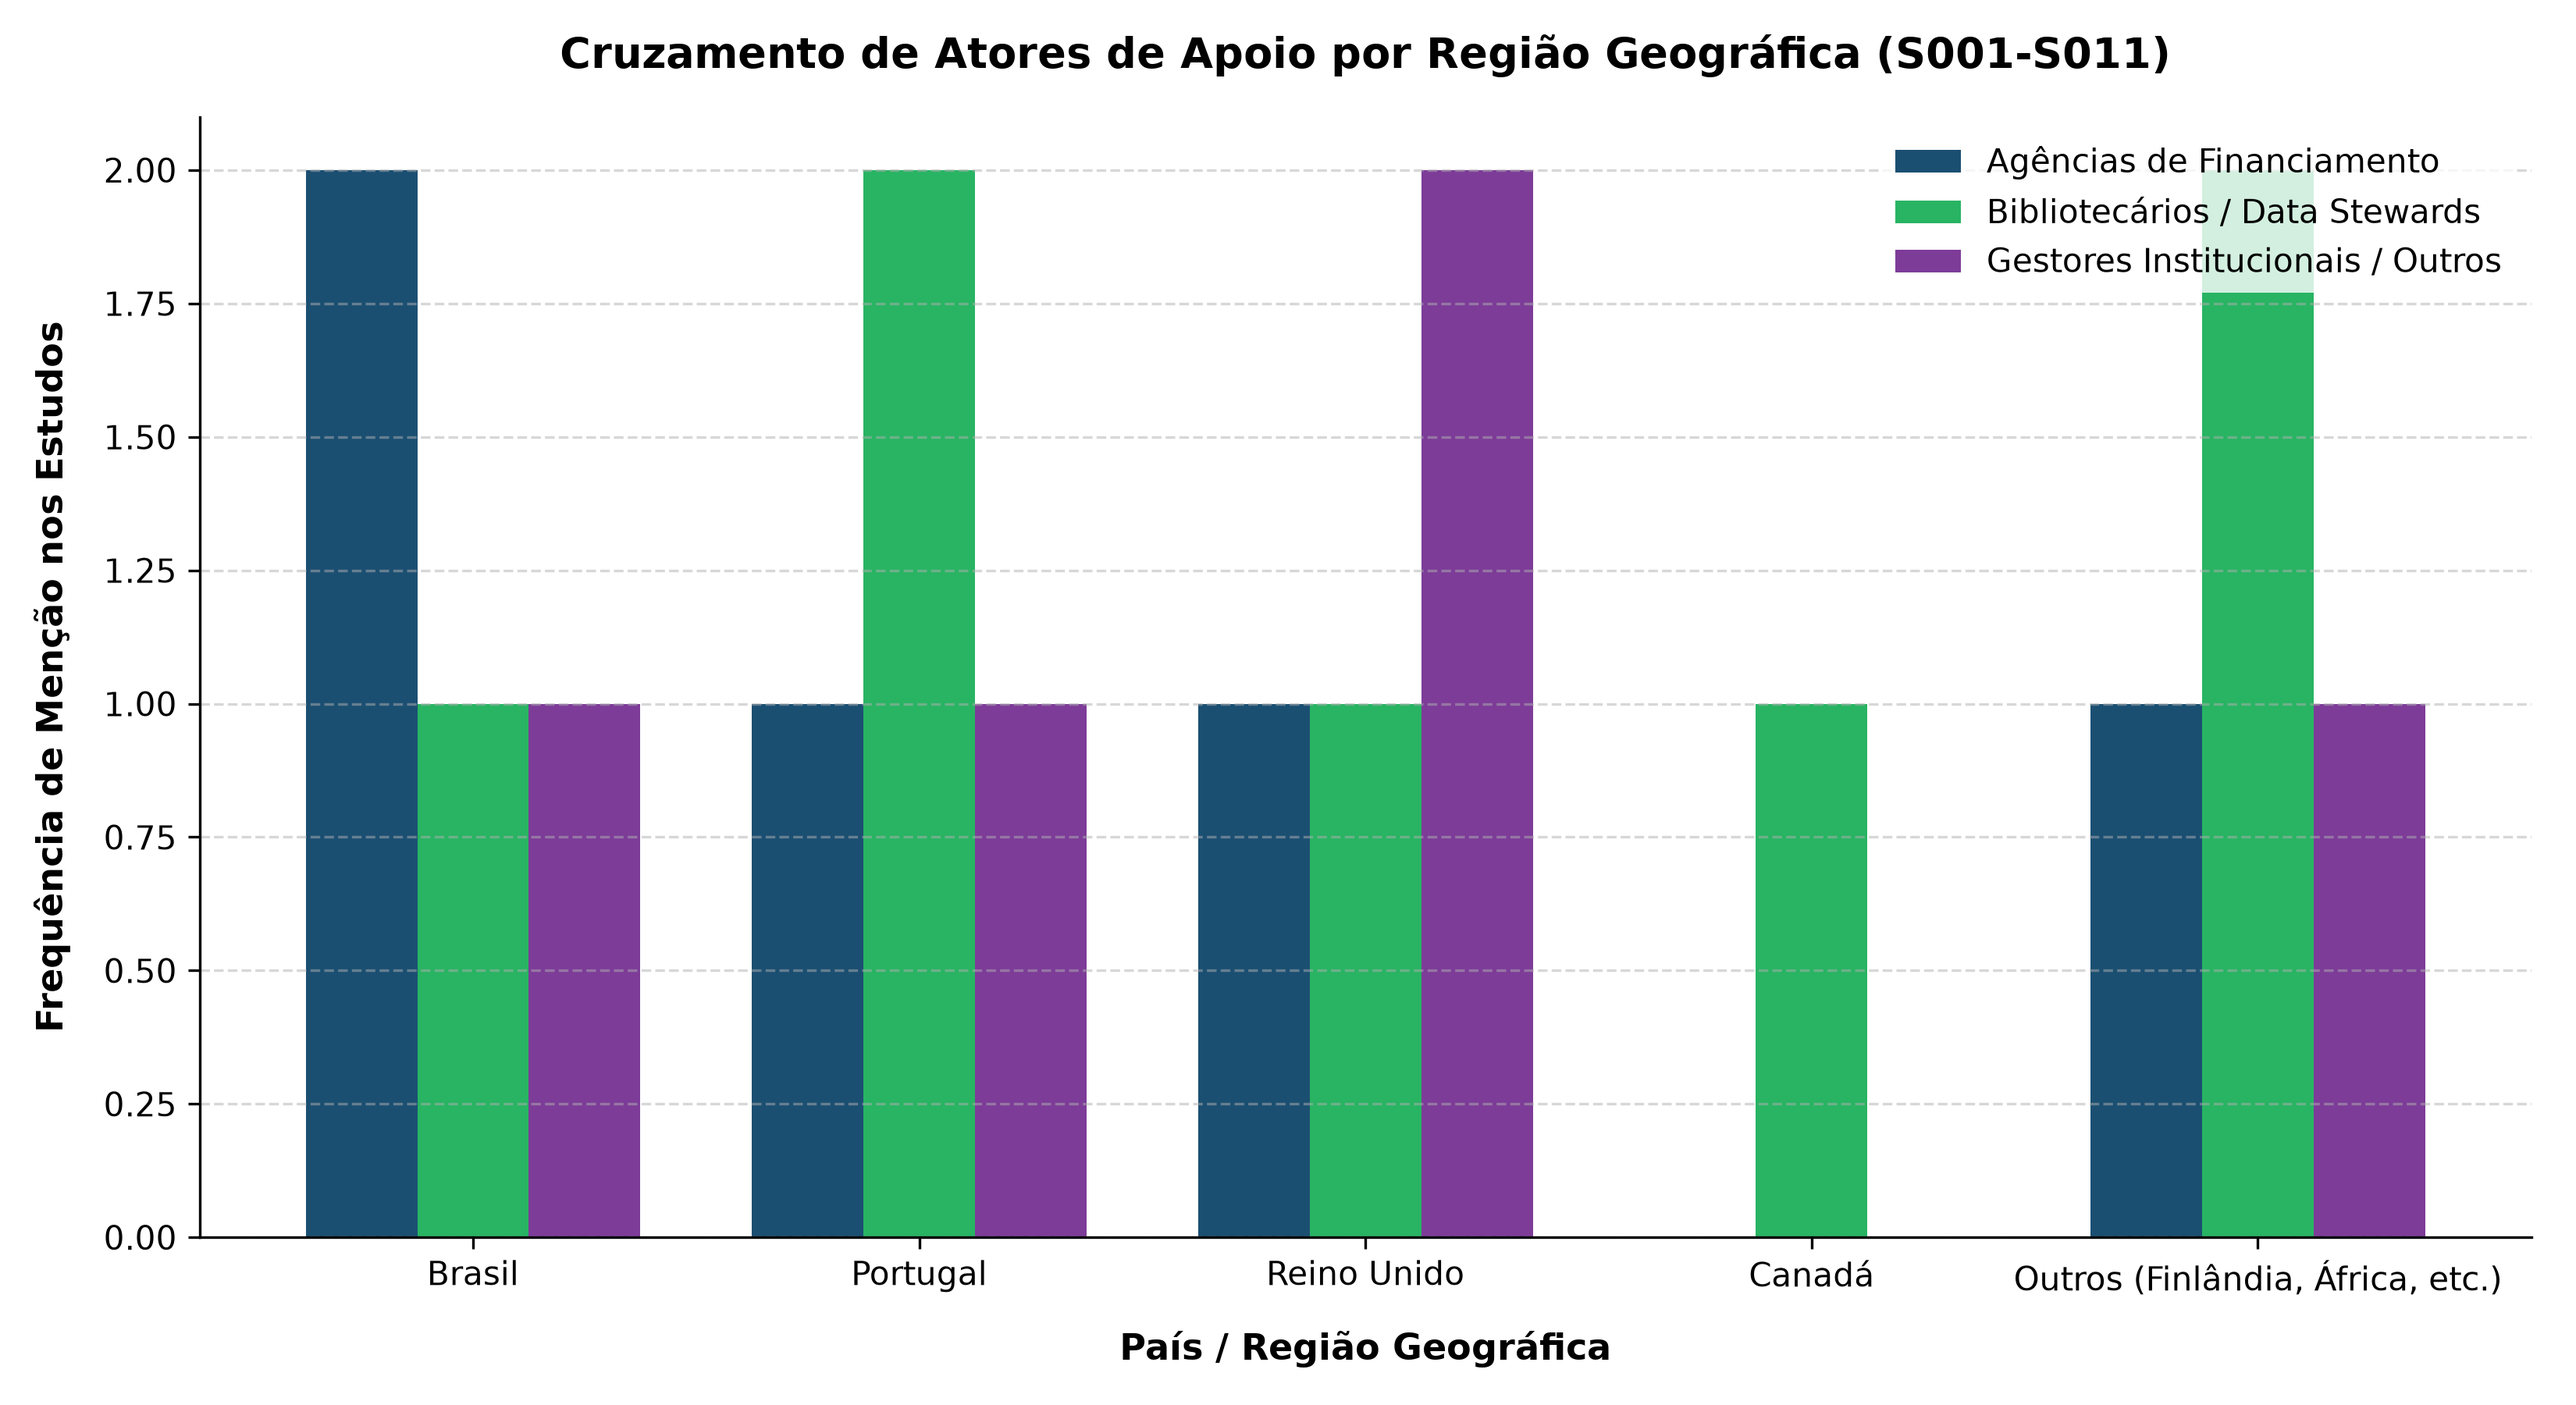
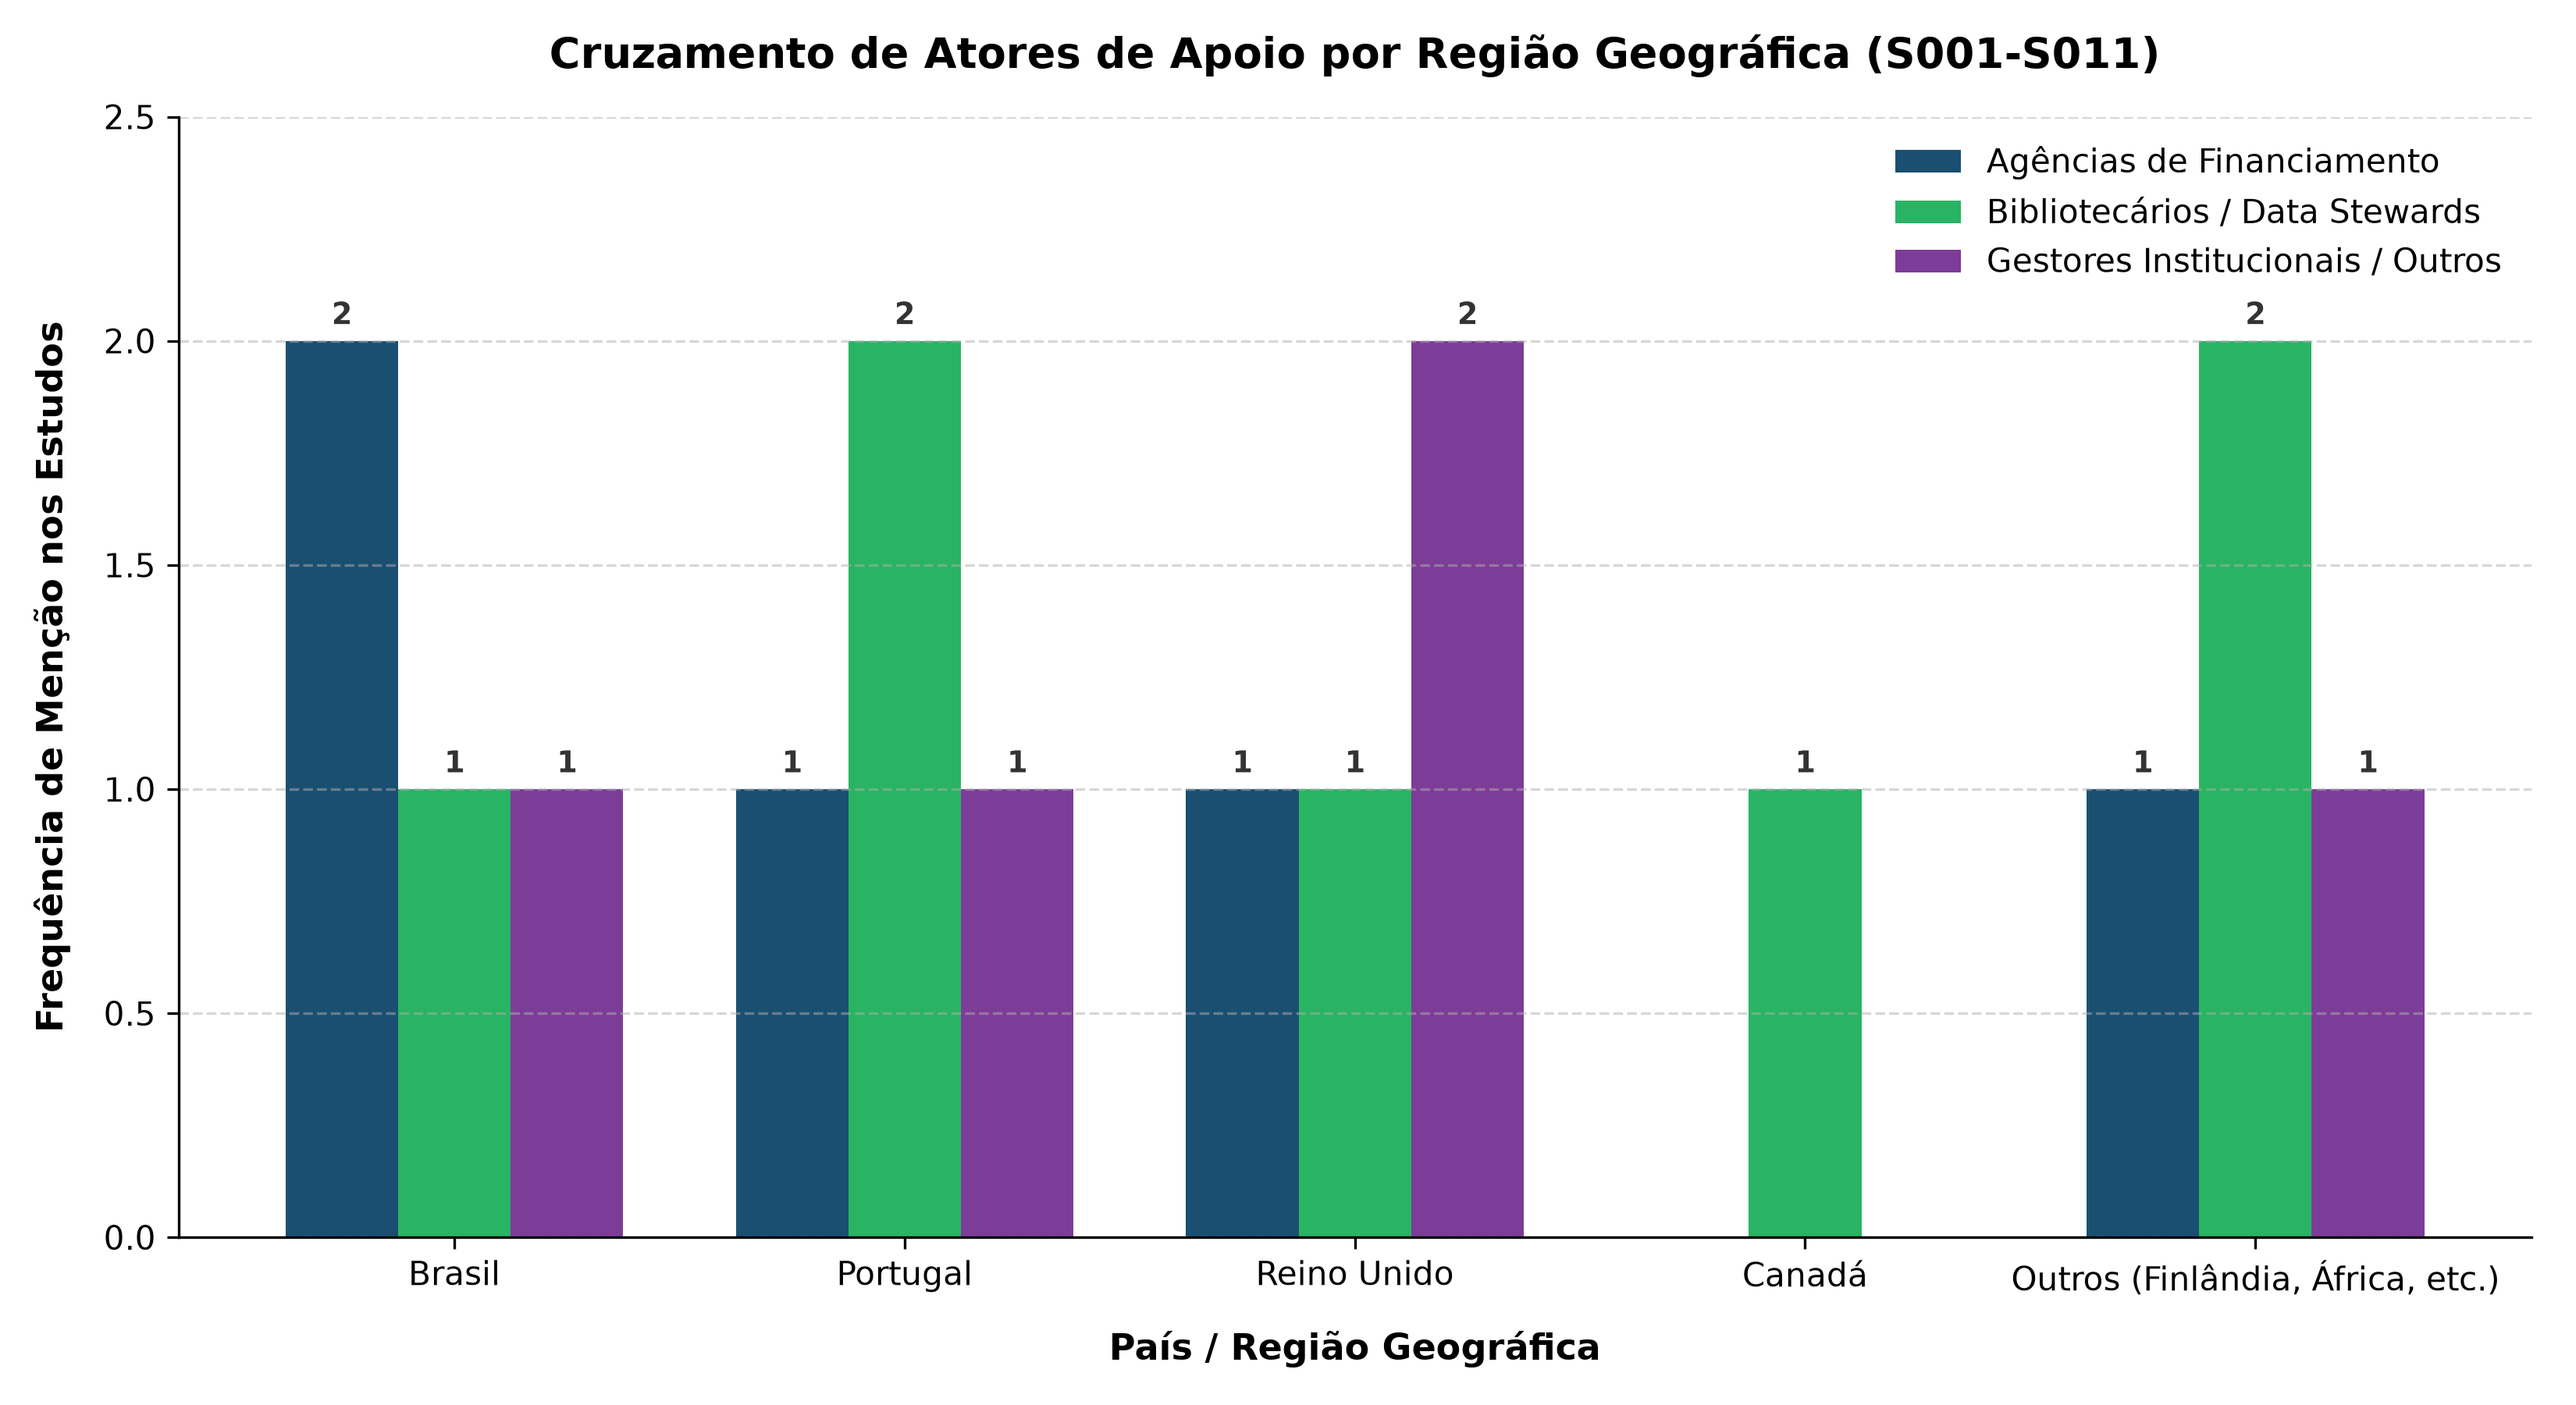
Adiciona rotulos numericos ao grafico de atores de apoio

diff --git a/dados/processados/gerar_grafico_atores_paises.py b/dados/processados/gerar_grafico_atores_paises.py
@@ -15,9 +15,24 @@ width = 0.25
 plt.figure(figsize=(11, 6))
 
 # Construção das barras agrupadas
-plt.bar(x - width, atores_financiadores, width, label='Agências de Financiamento', color='#1b4f72')
-plt.bar(x, atores_bibliotecarios, width, label='Bibliotecários / Data Stewards', color='#28b463')
-plt.bar(x + width, atores_data_stewards, width, label='Gestores Institucionais / Outros', color='#7d3c98')
+bars1 = plt.bar(x - width, atores_financiadores, width, label='Agências de Financiamento', color='#1b4f72')
+bars2 = plt.bar(x, atores_bibliotecarios, width, label='Bibliotecários / Data Stewards', color='#28b463')
+bars3 = plt.bar(x + width, atores_data_stewards, width, label='Gestores Institucionais / Outros', color='#7d3c98')
+
+# Função para adicionar os rótulos com os valores numéricos no topo de cada barra
+def adicionar_rotulos(bars):
+    for bar in bars:
+        height = bar.get_height()
+        if height > 0:  # Apenas adiciona texto se a barra tiver altura superior a 0
+            plt.annotate(f'{int(height)}',
+                         xy=(bar.get_x() + bar.get_width() / 2, height),
+                         xytext=(0, 3),  # Deslocamento vertical de 3 pontos
+                         textcoords="offset points",
+                         ha='center', va='bottom', fontsize=9, fontweight='bold', color='#333333')
+
+adicionar_rotulos(bars1)
+adicionar_rotulos(bars2)
+adicionar_rotulos(bars3)
 
 # Estilização do gráfico
 plt.xlabel('País / Região Geográfica', fontsize=11, fontweight='bold', labelpad=10)
@@ -26,6 +41,8 @@ plt.title('Cruzamento de Atores de Apoio por Região Geográfica (S001-S011)', f
 plt.xticks(x, paises, fontsize=10)
 plt.legend(frameon=True, facecolor='white', edgecolor='none')
 
+# Ajuste dos eixos (deixando espaço extra no topo para os números não cortarem)
+plt.ylim(0, 2.5)
 plt.grid(axis='y', linestyle='--', alpha=0.5)
 plt.gca().spines['top'].set_visible(False)
 plt.gca().spines['right'].set_visible(False)
@@ -33,4 +50,4 @@ plt.gca().spines['right'].set_visible(False)
 # Salvando a imagem na pasta de figuras do repositório
 plt.tight_layout()
 plt.savefig('documentos/figuras/figura_resultado_atores_paises.png', dpi=300)
-print("Gráfico de atores e países gerado e guardado com sucesso em documentos/figuras/figura_resultado_atores_paises.png!")
+print("Gráfico de atores e países atualizado com rótulos numéricos!")
